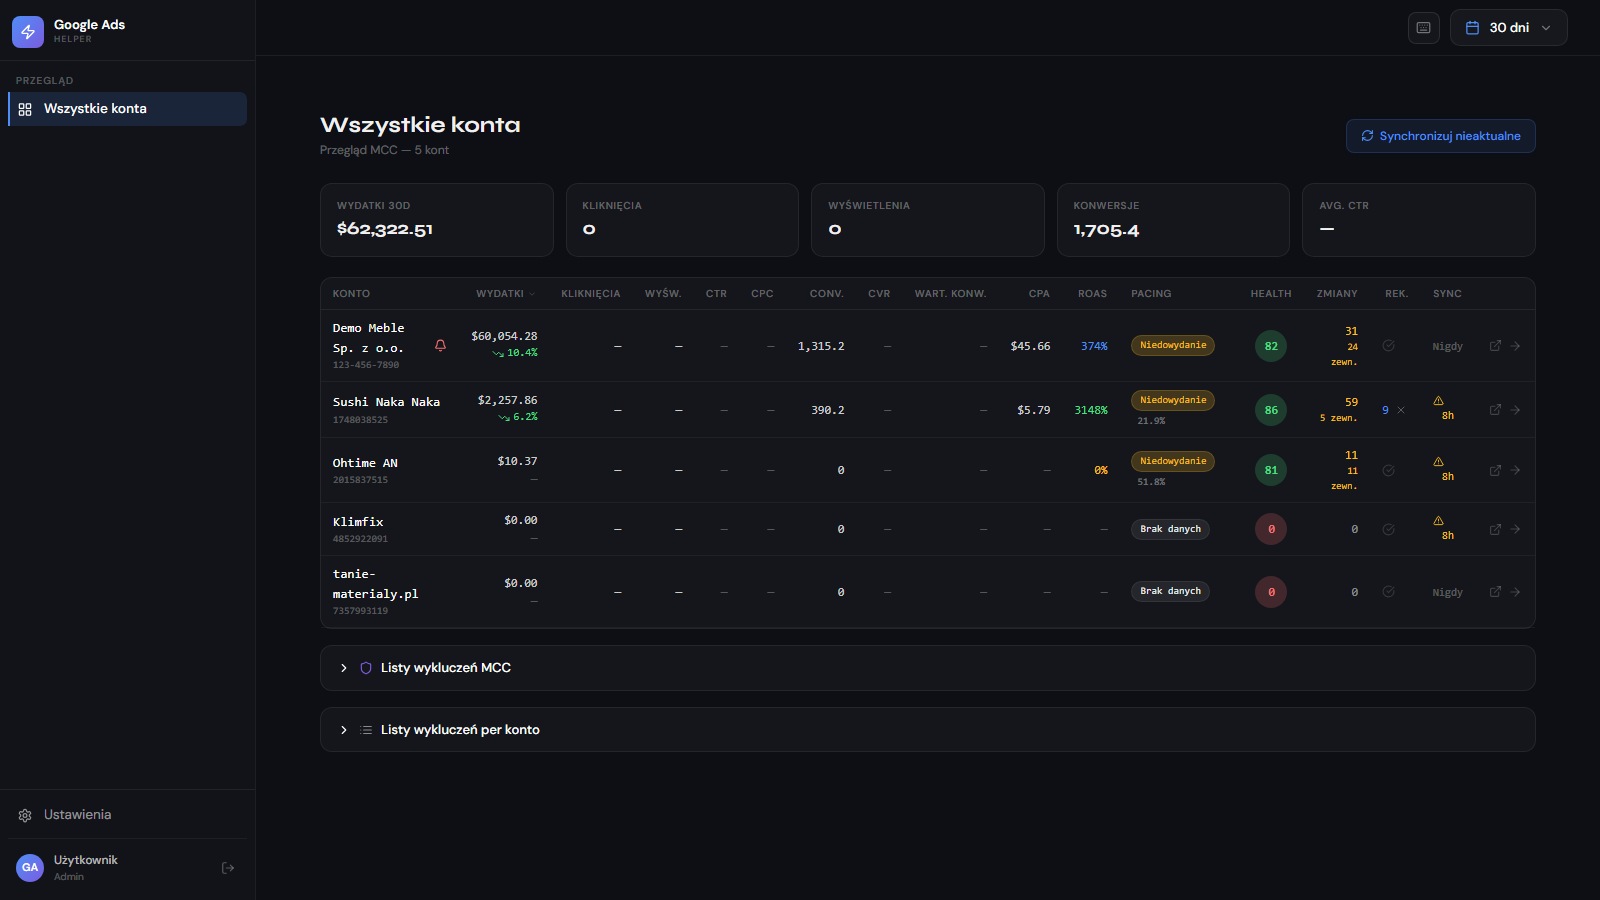
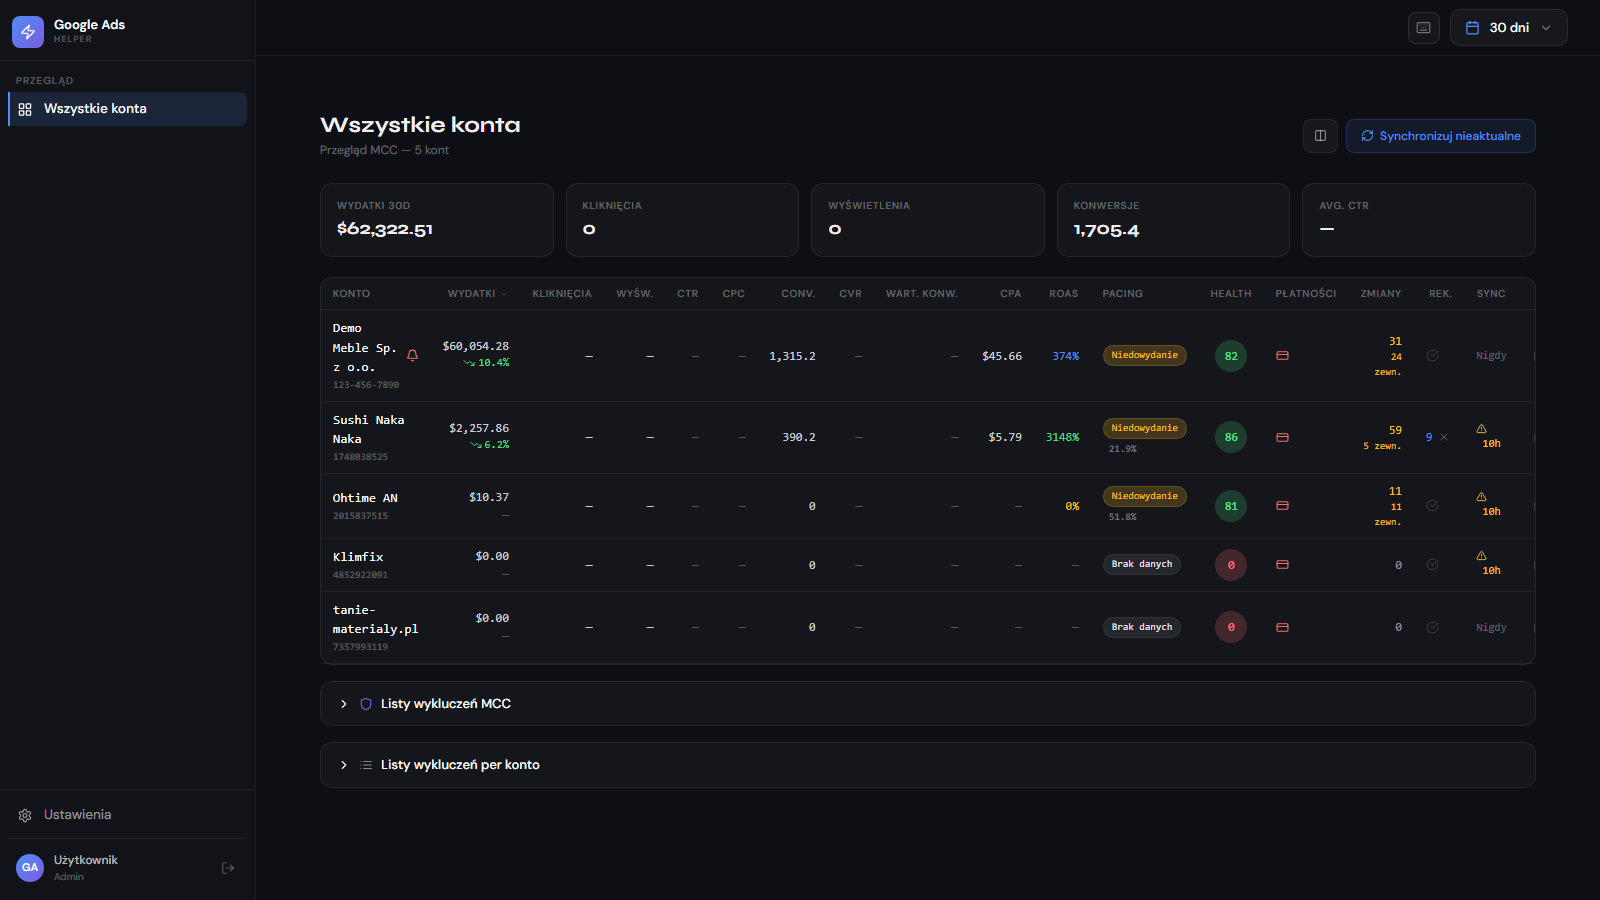
feat: billing status UI, MCC shared lists tests, responsive compact toggle
- Billing status: column "Płatności" with CreditCard icon per account,
  lazy-loaded via GET /mcc/billing-status (green=ok, red=error, grey=unknown)
- Compact mode: toggle button hides secondary columns (clicks, impressions,
  CTR, CPC, CVR, conv value) — keeps core metrics visible
- Tests: billing_status_without_api, billing_status_endpoint_returns_dict,
  shared_lists_from_manager with MccLink + NKL data (16 MCC tests total)
- Fixed MccLink customer ID normalization (dashes vs no-dashes)

503 backend tests passing, frontend build OK

diff --git a/frontend/src/features/mcc-overview/MCCOverviewPage.jsx b/frontend/src/features/mcc-overview/MCCOverviewPage.jsx
@@ -4,11 +4,11 @@ import {
     RefreshCw, TrendingUp, TrendingDown, ArrowRight,
     AlertTriangle, CheckCircle, Minus, Bell, ExternalLink,
     ChevronDown, ChevronRight, ChevronUp, Shield, List,
-    UserPlus, X,
+    UserPlus, X, CreditCard, Columns,
 } from 'lucide-react'
 import {
     getMccOverview, getMccNegativeKeywordLists, getMccSharedLists,
-    dismissMccGoogleRecommendations, syncClient,
+    getMccBillingStatus, dismissMccGoogleRecommendations, syncClient,
 } from '../../api'
 import { useApp } from '../../contexts/AppContext'
 import { C, B, T, R, S, CARD, STATUS_COLORS } from '../../constants/designTokens'
@@ -149,7 +149,9 @@ export default function MCCOverviewPage() {
     const [sortBy, setSortBy] = useState('spend_30d_usd')
     const [sortDir, setSortDir] = useState('desc')
     const [hoveredHealth, setHoveredHealth] = useState(null)
-    const [dismissingAll, setDismissingAll] = useState(null) // client_id being dismissed
+    const [dismissingAll, setDismissingAll] = useState(null)
+    const [compactMode, setCompactMode] = useState(false)
+    const [billingStatuses, setBillingStatuses] = useState({}) // {customerId: {status, ...}}
 
     const load = useCallback(async () => {
         try {
@@ -164,6 +166,18 @@ export default function MCCOverviewPage() {
     }, [showToast])
 
     useEffect(() => { load() }, [load])
+
+    // Lazy load billing status per account
+    useEffect(() => {
+        if (!data?.accounts?.length) return
+        data.accounts.forEach(acc => {
+            const cid = acc.google_customer_id
+            if (billingStatuses[cid]) return
+            getMccBillingStatus(cid)
+                .then(result => setBillingStatuses(prev => ({ ...prev, [cid]: result })))
+                .catch(() => setBillingStatuses(prev => ({ ...prev, [cid]: { status: 'error' } })))
+        })
+    }, [data]) // eslint-disable-line react-hooks/exhaustive-deps
 
     // Lazy load collapsible sections
     useEffect(() => {
@@ -260,13 +274,22 @@ export default function MCCOverviewPage() {
                         Przegląd MCC — {accounts.length} {accounts.length === 1 ? 'konto' : 'kont'}
                     </p>
                 </div>
-                <button onClick={handleSyncAll} style={{
-                    display: 'flex', alignItems: 'center', gap: S.sm, padding: '7px 14px',
-                    borderRadius: R.md, background: C.infoBg, border: B.info,
-                    color: C.accentBlue, fontSize: 12, fontWeight: 500, cursor: 'pointer',
-                }}>
-                    <RefreshCw size={13} /> Synchronizuj nieaktualne
-                </button>
+                <div style={{ display: 'flex', gap: 8 }}>
+                    <button onClick={() => setCompactMode(p => !p)} title={compactMode ? 'Pokaż wszystkie kolumny' : 'Tryb kompaktowy'} style={{
+                        display: 'flex', alignItems: 'center', gap: S.sm, padding: '7px 10px',
+                        borderRadius: R.md, background: compactMode ? C.infoBg : C.w04, border: compactMode ? B.info : B.subtle,
+                        color: compactMode ? C.accentBlue : C.w50, fontSize: 12, cursor: 'pointer',
+                    }}>
+                        <Columns size={13} />
+                    </button>
+                    <button onClick={handleSyncAll} style={{
+                        display: 'flex', alignItems: 'center', gap: S.sm, padding: '7px 14px',
+                        borderRadius: R.md, background: C.infoBg, border: B.info,
+                        color: C.accentBlue, fontSize: 12, fontWeight: 500, cursor: 'pointer',
+                    }}>
+                        <RefreshCw size={13} /> Synchronizuj nieaktualne
+                    </button>
+                </div>
             </div>
 
             {/* KPI strip */}
@@ -303,17 +326,18 @@ export default function MCCOverviewPage() {
                             <tr style={{ borderBottom: B.card }}>
                                 <SortHeader label="Konto" field="client_name" sortBy={sortBy} sortDir={sortDir} onSort={handleSort} />
                                 <SortHeader label="Wydatki" field="spend_30d_usd" sortBy={sortBy} sortDir={sortDir} onSort={handleSort} align="right" />
-                                <SortHeader label="Kliknięcia" field="clicks_30d" sortBy={sortBy} sortDir={sortDir} onSort={handleSort} align="right" />
-                                <SortHeader label="Wyśw." field="impressions_30d" sortBy={sortBy} sortDir={sortDir} onSort={handleSort} align="right" />
-                                <SortHeader label="CTR" field="ctr_pct" sortBy={sortBy} sortDir={sortDir} onSort={handleSort} align="right" />
-                                <SortHeader label="CPC" field="avg_cpc_usd" sortBy={sortBy} sortDir={sortDir} onSort={handleSort} align="right" />
+                                {!compactMode && <SortHeader label="Kliknięcia" field="clicks_30d" sortBy={sortBy} sortDir={sortDir} onSort={handleSort} align="right" />}
+                                {!compactMode && <SortHeader label="Wyśw." field="impressions_30d" sortBy={sortBy} sortDir={sortDir} onSort={handleSort} align="right" />}
+                                {!compactMode && <SortHeader label="CTR" field="ctr_pct" sortBy={sortBy} sortDir={sortDir} onSort={handleSort} align="right" />}
+                                {!compactMode && <SortHeader label="CPC" field="avg_cpc_usd" sortBy={sortBy} sortDir={sortDir} onSort={handleSort} align="right" />}
                                 <SortHeader label="Conv." field="conversions_30d" sortBy={sortBy} sortDir={sortDir} onSort={handleSort} align="right" />
-                                <SortHeader label="CVR" field="conversion_rate_pct" sortBy={sortBy} sortDir={sortDir} onSort={handleSort} align="right" />
-                                <SortHeader label="Wart. konw." field="conversion_value_usd" sortBy={sortBy} sortDir={sortDir} onSort={handleSort} align="right" />
+                                {!compactMode && <SortHeader label="CVR" field="conversion_rate_pct" sortBy={sortBy} sortDir={sortDir} onSort={handleSort} align="right" />}
+                                {!compactMode && <SortHeader label="Wart. konw." field="conversion_value_usd" sortBy={sortBy} sortDir={sortDir} onSort={handleSort} align="right" />}
                                 <SortHeader label="CPA" field="cpa_usd" sortBy={sortBy} sortDir={sortDir} onSort={handleSort} align="right" />
                                 <SortHeader label="ROAS" field="roas_pct" sortBy={sortBy} sortDir={sortDir} onSort={handleSort} align="right" />
                                 <th style={TH}>Pacing</th>
                                 <SortHeader label="Health" field="health" sortBy={sortBy} sortDir={sortDir} onSort={handleSort} align="center" />
+                                <th style={{ ...TH, textAlign: 'center' }}>Płatności</th>
                                 <SortHeader label="Zmiany" field="total_changes_30d" sortBy={sortBy} sortDir={sortDir} onSort={handleSort} align="right" />
                                 <SortHeader label="Rek." field="google_recs_pending" sortBy={sortBy} sortDir={sortDir} onSort={handleSort} align="right" />
                                 <th style={{ ...TH, textAlign: 'center' }}>Sync</th>
@@ -359,20 +383,14 @@ export default function MCCOverviewPage() {
                                             <div>{fmtUsd(acc.spend_30d_usd)}</div>
                                             <SpendChange pct={acc.spend_change_pct} />
                                         </td>
-                                        {/* Kliknięcia */}
-                                        <td style={{ ...TD, textAlign: 'right' }}>{fmtNum(acc.clicks_30d)}</td>
-                                        {/* Wyświetlenia */}
-                                        <td style={{ ...TD, textAlign: 'right' }}>{fmtNum(acc.impressions_30d)}</td>
-                                        {/* CTR */}
-                                        <td style={{ ...TD, textAlign: 'right' }}>{acc.ctr_pct != null ? `${acc.ctr_pct}%` : <span style={{ color: C.w30 }}>—</span>}</td>
-                                        {/* CPC */}
-                                        <td style={{ ...TD, textAlign: 'right' }}>{acc.avg_cpc_usd != null ? fmtUsd(acc.avg_cpc_usd) : <span style={{ color: C.w30 }}>—</span>}</td>
+                                        {!compactMode && <td style={{ ...TD, textAlign: 'right' }}>{fmtNum(acc.clicks_30d)}</td>}
+                                        {!compactMode && <td style={{ ...TD, textAlign: 'right' }}>{fmtNum(acc.impressions_30d)}</td>}
+                                        {!compactMode && <td style={{ ...TD, textAlign: 'right' }}>{acc.ctr_pct != null ? `${acc.ctr_pct}%` : <span style={{ color: C.w30 }}>—</span>}</td>}
+                                        {!compactMode && <td style={{ ...TD, textAlign: 'right' }}>{acc.avg_cpc_usd != null ? fmtUsd(acc.avg_cpc_usd) : <span style={{ color: C.w30 }}>—</span>}</td>}
                                         {/* Konwersje */}
                                         <td style={{ ...TD, textAlign: 'right' }}>{fmtNum(acc.conversions_30d, 1)}</td>
-                                        {/* CVR */}
-                                        <td style={{ ...TD, textAlign: 'right' }}>{acc.conversion_rate_pct != null ? `${acc.conversion_rate_pct}%` : <span style={{ color: C.w30 }}>—</span>}</td>
-                                        {/* Wartość konwersji */}
-                                        <td style={{ ...TD, textAlign: 'right' }}>{acc.conversion_value_usd > 0 ? fmtUsd(acc.conversion_value_usd) : <span style={{ color: C.w30 }}>—</span>}</td>
+                                        {!compactMode && <td style={{ ...TD, textAlign: 'right' }}>{acc.conversion_rate_pct != null ? `${acc.conversion_rate_pct}%` : <span style={{ color: C.w30 }}>—</span>}</td>}
+                                        {!compactMode && <td style={{ ...TD, textAlign: 'right' }}>{acc.conversion_value_usd > 0 ? fmtUsd(acc.conversion_value_usd) : <span style={{ color: C.w30 }}>—</span>}</td>}
                                         {/* CPA */}
                                         <td style={{ ...TD, textAlign: 'right' }}>{acc.cpa_usd != null ? fmtUsd(acc.cpa_usd) : <span style={{ color: C.w30 }}>—</span>}</td>
                                         {/* ROAS */}
@@ -405,6 +423,10 @@ export default function MCCOverviewPage() {
                                                     {hoveredHealth === acc.client_id && <HealthTooltip health={acc.health} />}
                                                 </span>
                                             ) : <Minus size={14} style={{ color: C.w20 }} />}
+                                        </td>
+                                        {/* Płatności */}
+                                        <td style={{ ...TD, textAlign: 'center' }}>
+                                            <BillingBadge status={billingStatuses[acc.google_customer_id]} />
                                         </td>
                                         {/* Zmiany */}
                                         <td style={{ ...TD, textAlign: 'right', cursor: 'pointer' }} onClick={(e) => handleDeepLink(acc, '/action-history', e)} title="Otwórz historię zmian">
@@ -526,6 +548,15 @@ function LoadingPlaceholder() {
 
 function EmptyPlaceholder({ text }) {
     return <div style={{ padding: 24, textAlign: 'center', color: C.w30, fontSize: 12 }}>{text}</div>
+}
+
+function BillingBadge({ status }) {
+    if (!status) return <RefreshCw size={11} style={{ color: C.w20, animation: 'spin 1s linear infinite' }} />
+    if (status.status === 'ok') return <CreditCard size={13} style={{ color: C.success }} title="Płatności OK" />
+    if (status.status === 'no_billing') return <CreditCard size={13} style={{ color: C.danger }} title="Brak aktywnego billing setup" />
+    if (status.status === 'no_access') return <CreditCard size={13} style={{ color: C.w30 }} title="Brak dostępu do billing API" />
+    if (status.status === 'error') return <CreditCard size={13} style={{ color: C.danger }} title="Błąd sprawdzania płatności" />
+    return <CreditCard size={13} style={{ color: C.w30 }} title={status.reason || 'Status nieznany'} />
 }
 
 function NklTable({ data, onRowClick, showLevel }) {

diff --git a/backend/tests/test_mcc.py b/backend/tests/test_mcc.py
@@ -3,7 +3,7 @@
 from datetime import date, datetime, timedelta, timezone
 
 from app.models import (
-    Alert, Campaign, ChangeEvent, Client, MetricDaily,
+    Alert, Campaign, ChangeEvent, Client, MccLink, MetricDaily,
     NegativeKeywordList, NegativeKeywordListItem, Recommendation, SyncLog,
 )
 from app.services.mcc_service import MCCService
@@ -285,3 +285,56 @@ def test_mcc_shared_lists_empty(db):
     svc = MCCService(db)
     result = svc.get_mcc_shared_lists()
     assert isinstance(result, list)
+
+
+def test_mcc_shared_lists_from_manager(db):
+    """MCC shared lists should return lists from manager account via MccLink."""
+    # Create manager client
+    manager = _client(db, "MCC Manager", "999-000-0001")
+    child = _client(db, "Child Account", "999-000-0002")
+
+    # Create MCC link
+    db.add(MccLink(
+        manager_customer_id="9990000001",
+        client_customer_id="9990000002",
+        client_descriptive_name="Child Account",
+        local_client_id=child.id,
+    ))
+    db.commit()
+
+    # Add NKL to manager account (MCC-level)
+    mcc_nkl = NegativeKeywordList(client_id=manager.id, name="MCC Exclusions", source="GOOGLE_ADS_SYNC")
+    db.add(mcc_nkl)
+    db.commit()
+
+    db.add(NegativeKeywordListItem(list_id=mcc_nkl.id, text="spam"))
+    db.add(NegativeKeywordListItem(list_id=mcc_nkl.id, text="free"))
+    db.commit()
+
+    svc = MCCService(db)
+    result = svc.get_mcc_shared_lists()
+
+    assert len(result) >= 1
+    mcc_list = next(r for r in result if r["name"] == "MCC Exclusions")
+    assert mcc_list["client_name"] == "MCC Manager"
+    assert mcc_list["member_count"] == 2
+    assert mcc_list["level"] == "mcc"
+
+
+def test_billing_status_without_api(db):
+    """Billing status should return 'unknown' when API not connected."""
+    svc = MCCService(db)
+    result = svc.get_billing_status("123-456-7890")
+    assert result["status"] in ("unknown", "no_access")
+
+
+def test_billing_status_endpoint_returns_dict(db):
+    """GET /mcc/billing-status should return a dict with status field."""
+    from fastapi.testclient import TestClient
+    from app.main import app
+
+    client = TestClient(app)
+    resp = client.get("/api/v1/mcc/billing-status", params={"customer_id": "123-456-7890"})
+    assert resp.status_code == 200
+    data = resp.json()
+    assert "status" in data

diff --git a/backend/app/services/mcc_service.py b/backend/app/services/mcc_service.py
@@ -121,11 +121,11 @@ class MCCService:
         # manager account sync, or client_id matches a manager account
         manager_client_ids = set()
         if manager_ids:
-            for mid in manager_ids:
-                mc = self.db.query(Client).filter(
-                    Client.google_customer_id == mid
-                ).first()
-                if mc:
+            # Normalize: MccLink stores without dashes, Client may have dashes
+            all_clients = self.db.query(Client).all()
+            for mc in all_clients:
+                normalized = mc.google_customer_id.replace("-", "") if mc.google_customer_id else ""
+                if normalized in manager_ids:
                     manager_client_ids.add(mc.id)
 
         # Query: MCC-level lists (from manager clients) + fallback to all synced lists

diff --git a/PROGRESS.md b/PROGRESS.md
@@ -60,28 +60,24 @@
 3. **Tydz 3-4:** "Top 5 actions today" z PLN impact + one-click apply + email digest
 
 ## MCC Overview — Cross-Account Landing Page (2026-04-02)
-- New landing page at `/mcc-overview` — default entry point (/ redirects to /mcc-overview)
-- Backend: `MCCService` with 4 endpoints (`/mcc/overview`, `/mcc/new-access`, `/mcc/dismiss-google-recommendations`, `/mcc/negative-keyword-lists`)
+- New landing page `MccOverviewPage.jsx` (`features/mcc-overview/`) at `/mcc-overview` — default entry point (/ redirects to /mcc-overview)
+- Backend: `mcc.py` router with 6 endpoints:
+  - `GET /mcc/overview` — aggregated KPIs, health scores, pacing, change activity for all clients
+  - `GET /mcc/new-access` — detect new user emails in change history
+  - `POST /mcc/dismiss-google-recommendations` — bulk dismiss Google recommendations
+  - `GET /mcc/negative-keyword-lists` — negative keyword lists across all clients
+  - `GET /mcc/shared-lists` — MCC-level shared negative keyword lists
+  - `GET /mcc/billing-status` — billing/payment status per customer
 - Per-account metrics: spend 30d (with delta %), conversions, CPA, ROAS, budget pacing (75%/120% thresholds), health score (6-pillar tooltip), change activity (total + external), Google recs pending, unresolved alerts, last sync
+- Full account metrics (clicks, impressions, CTR, CPC, CVR, conv value), new access badges, dismiss Google recs button, MCC shared lists, billing status endpoint
 - Sortable table columns, deep-links from cells to per-account pages (Recommendations, Action History, Alerts, Keywords)
 - Collapsible NKL cross-account section (lazy-loaded)
 - Link "Open in Google Ads" per row, alert badge (Bell) per account
 - Sidebar: "Wszystkie konta" always visible, ClientSelector/CampaignTypePills hidden on MCC page
 - Dashboard breadcrumb "← Wszystkie konta" when navigating from MCC
 - Config: `SPECIALIST_EMAILS` env var for external change detection
+- Reuses `BudgetPacingModule` and `KpiCard` shared components
 - 13 backend tests, frontend build OK, ads review pipeline complete (ads-user → ads-expert 7.5/10 → ads-verify Sprint 1+2 done)
-- Phase 2: full account metrics (clicks, impressions, CTR, CPC, CVR, conv value), new access badges, dismiss Google recs button, MCC shared lists, billing status endpoint, design tokens migration (C/B/T/R/S)
-
-## MCC Overview Landing Page (2026-04-02)
-- New landing page `MccOverviewPage.jsx` (`features/mcc-overview/`) — cross-account aggregation dashboard.
-- New backend router `mcc.py` with 4 endpoints:
-  - `GET /mcc/overview` — aggregated KPIs, health scores, pacing, change activity for all clients
-  - `GET /mcc/new-access` — detect new user emails in change history
-  - `POST /mcc/dismiss-google-recommendations` — bulk dismiss Google recommendations
-  - `GET /mcc/negative-keyword-lists` — negative keyword lists across all clients
-- Route: `/mcc-overview`, set as default landing page (redirect from `/`).
-- Per-account health score with 6-pillar breakdown, pacing status, unresolved alerts, last sync.
-- Reuses `BudgetPacingModule` and `KpiCard` shared components.
 
 ## Reusable UI Modules — BudgetPacingModule + KpiCard (2026-04-01)
 - Extracted `BudgetPacingModule` and `KpiCard` from duplicated inline code across 5+ pages into `frontend/src/components/modules/`.

diff --git a/docs/COMPLETED_FEATURES.md b/docs/COMPLETED_FEATURES.md
@@ -384,7 +384,8 @@ These features are done and tested. Do NOT refactor, "improve", or touch them wi
 - External changes detection (`/mcc/new-access`), Google recommendations pending count.
 - Negative keyword lists overview across all accounts (`/mcc/negative-keyword-lists`).
 - Bulk dismiss Google recommendations (`/mcc/dismiss-google-recommendations`).
-- Backend: `mcc.py` router with 4 endpoints (overview, new-access, dismiss-google-recommendations, negative-keyword-lists).
+- MCC shared lists overview (`/mcc/shared-lists`), billing status check (`/mcc/billing-status`).
+- Backend: `mcc.py` router with 6 endpoints (overview, new-access, dismiss-google-recommendations, negative-keyword-lists, shared-lists, billing-status).
 - Reuses `BudgetPacingModule` and `KpiCard` shared components.
 
 ## PERFORMANCE_MAX / PMAX Naming Consistency
